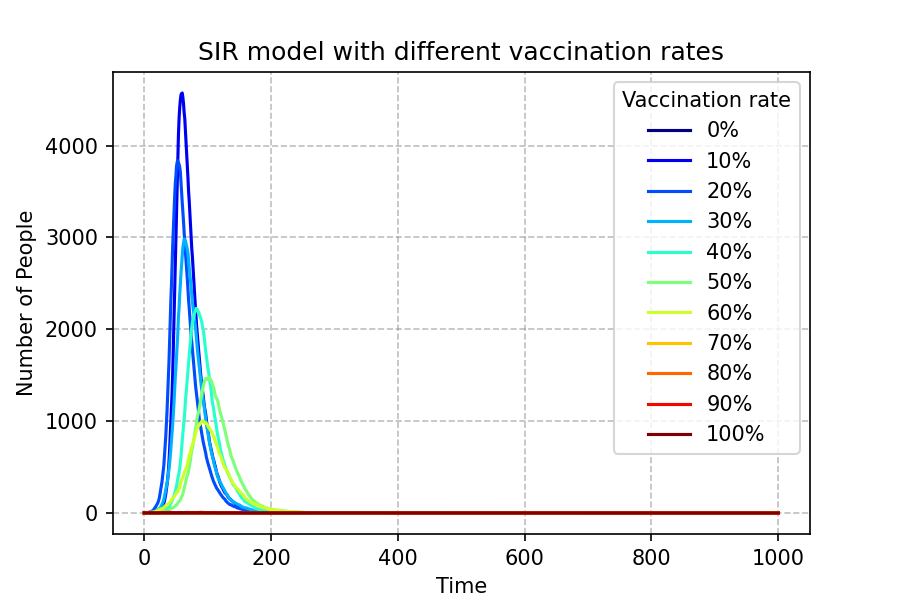
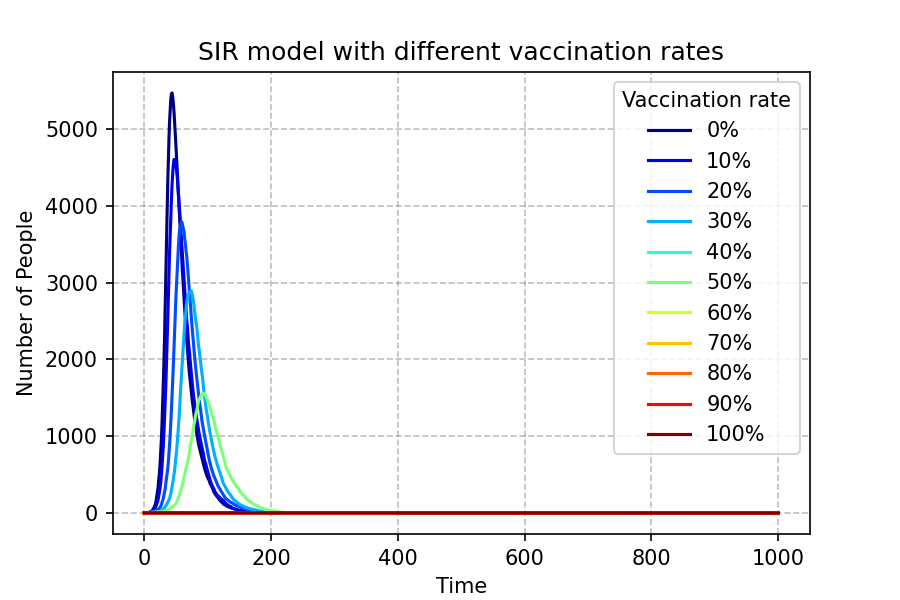
edit SIR_vaccination

diff --git a/Pracitical6/SIR_vaccination.py b/Pracitical6/SIR_vaccination.py
@@ -1,9 +1,8 @@
 # pseudocode：
 # 1.import necessary libraries
-# 2.define a SIRV model
-# 3.set variables
-# 4.plot results
-# 5.save results
+# 2.make a SIRV model with variables 
+# 3.input specific variables range 
+# 4.plot results with color change
 
 import numpy as np
 import matplotlib.pyplot as plt
@@ -30,10 +29,10 @@ def sirv(N, beta, gamma, vaccination_rate, time_points):
     
         # simulate new infections
         presus=max(0, presus)
-        newinf=int(np.random.choice(range(2), int(presus), p=[1-probinf, probinf]).sum())
+        newinf=int(np.random.choice(range(2), presus, p=[1-probinf, probinf]).sum())
     
         # simulate recoveries
-        newreco=int(np.random.choice(range(2), int(preinf), p=[1-gamma, gamma]).sum())
+        newreco=int(np.random.choice(range(2), preinf, p=[1-gamma, gamma]).sum())
     
         # update compartments
         sus.append(presus-newinf)
